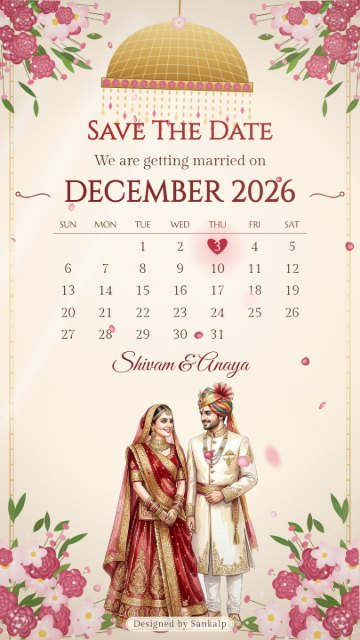
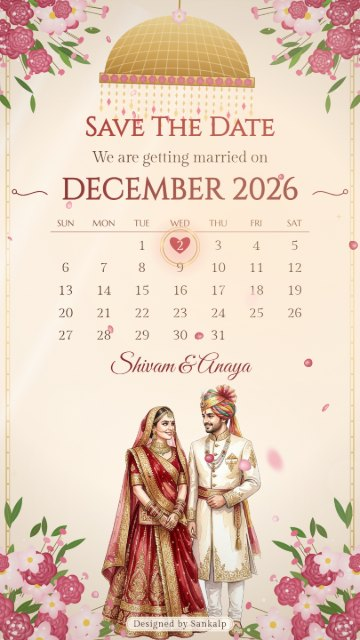
Save The Date: 2 December, gold sheen on the lettering, a gold ring round the day, names written in by hand inside a gold frame

diff --git a/js/cinema/bundle.js b/js/cinema/bundle.js
@@ -5336,8 +5336,24 @@ Cinema.register((K => {
     c.save(); c.globalAlpha *= a; c.textAlign = 'center'; c.textBaseline = 'middle';
     let zz = z; for (let i = 0; i < 20; i++) { c.font = font(f, zz, s); if (c.measureText(s).width <= maxW) break; zz *= .94; }
     if (reveal < 1) { const w = c.measureText(s).width; c.beginPath(); c.rect(x - w / 2 - 40, y - zz, (w + 80) * reveal, zz * 2); c.clip(); }
-    c.fillStyle = col; c.fillText(s, x, y);
+    c.fillStyle = typeof col === 'function' ? col(c, x, c.measureText(s).width, zz) : col; c.fillText(s, x, y);
     c.restore();
+  }
+  // a band of light that sweeps across lettering (p 0 -> 1), drawn over the same words
+  const sheen = p => (c, x, w) => {
+    const g = c.createLinearGradient(x - w / 2 - 120, 0, x + w / 2 + 120, 0), u = clamp(p) * .9 + .05;
+    g.addColorStop(0, 'rgba(255,236,190,0)'); g.addColorStop(Math.max(0, u - .06), 'rgba(255,236,190,0)'); g.addColorStop(u, 'rgba(255,244,214,.95)');
+    g.addColorStop(Math.min(1, u + .06), 'rgba(255,236,190,0)'); g.addColorStop(1, 'rgba(255,236,190,0)'); return g;
+  };
+  // deep gold lettering
+  const goldInk = (c, x, w, z) => { const g = c.createLinearGradient(0, -z * .6, 0, z * .6); g.addColorStop(0, '#d9a94c'); g.addColorStop(.5, '#8a5a1e'); g.addColorStop(1, '#c08a34'); return g; };
+  function shine(c, s, x, y, f, z, a, t, at, maxW) { const p = (t - at) / 1.3; if (p > 0 && p < 1) say(c, s, x, y, f, z, sheen(p), a, maxW); }
+  // a warm light leak that drifts across the frame once
+  function leak(c, p) {
+    if (p <= 0 || p >= 1) return;
+    const x = lerp(-400, W + 400, p), g = c.createRadialGradient(x, H * .35, 0, x, H * .35, 700);
+    g.addColorStop(0, `rgba(255,214,170,${(.38 * Math.sin(p * Math.PI)).toFixed(3)})`); g.addColorStop(1, 'rgba(255,214,170,0)');
+    c.fillStyle = g; c.fillRect(0, 0, W, H);
   }
   function flourish(c, x, y, dir, a, col = WINE) {
     c.save(); c.globalAlpha *= a; c.strokeStyle = col; c.lineWidth = 3; c.lineCap = 'round';
@@ -5353,12 +5369,12 @@ Cinema.register((K => {
 
   // ---------- the card's details ----------
   function weddingDate(card) {
-    if (card && card.sampleOf) return new Date(2026, 11, 3, 19, 0);
+    if (card && card.sampleOf) return new Date(2026, 11, 2, 19, 0);
     const all = days(card || {}).filter(d => d.date);
     const wed = all.find(d => d.events.some(e => /wedding|vivah|shaadi|shadi|phere|lagan|विवाह|शादी|फेरे/i.test(e.name)));
     if (wed) return wed.date;
     if (typeof Core !== 'undefined' && card && card.date) { const d = Core.parseDate(card.date); if (d) return d; }
-    return all.length ? all[0].date : new Date(2026, 11, 3, 19, 0);
+    return all.length ? all[0].date : new Date(2026, 11, 2, 19, 0);
   }
   function grid(date) {
     const y = date.getFullYear(), m = date.getMonth(), first = new Date(y, m, 1).getDay(), n = new Date(y, m + 1, 0).getDate();
@@ -5408,21 +5424,25 @@ Cinema.register((K => {
     const a = ease(rise), h = hgt * (1 + .008 * Math.sin(t * 1.3)), w = h * img.naturalWidth / img.naturalHeight;
     c.save(); c.globalAlpha = a;
     glow(c, 540, foot - h * .55, h * .62, 'rgba(255,248,236,.85)');
-    c.translate(0, (1 - a) * 140);
-    c.drawImage(img, 540 - w / 2, foot - h, w, h);
+    c.translate(540, foot + (1 - a) * 140); c.rotate(Math.sin(t * .9) * .008); c.scale(.92 + .08 * a, .92 + .08 * a);
+    c.drawImage(img, -w / 2, -h, w, h);
     c.restore();
   }
 
   function calendarShot(c, s, pt, t, P) {
     const hi = P.opt.lang === 'hi', { date, G, target, stops } = setFor(s, P);
-    const fade = clamp(pt / .9);
+    const fade = clamp(pt / .9), zc = 1.045 - .045 * ease(pt / 3) + .03 * clamp((pt - 3) / 7.6);
+    c.save(); c.translate(540, 900); c.scale(zc, zc); c.translate(-540, -900);
     backdrop(c, P, pt, t, true);
     // words
     say(c, hi ? 'शुभ तिथि याद रखें' : 'Save The Date', 540, 400, 'title', 78, RED, ease((pt - .5) / .5), 900, ease((pt - .5) / 1.1));
+    shine(c, hi ? 'शुभ तिथि याद रखें' : 'Save The Date', 540, 400, 'title', 78, 1, pt, 1.7, 900);
+    shine(c, hi ? 'शुभ तिथि याद रखें' : 'Save The Date', 540, 400, 'title', 78, 1, pt, 9.0, 900);
     say(c, hi ? 'हम विवाह बंधन में बंध रहे हैं' : 'We are getting married on', 540, 484, 'serif', 44, INK, ease((pt - 1.1) / .7));
     const ma = ease((pt - 1.5) / .8);
     c.save(); c.translate(540, 584); c.scale(.85 + .15 * ma, .85 + .15 * ma);
     say(c, `${(hi ? HI_MONTHS : MONTH_EN)[G.m]} ${G.y}`.toUpperCase(), 0, 0, 'title', 88, WINE, ma, 760);
+    shine(c, `${(hi ? HI_MONTHS : MONTH_EN)[G.m]} ${G.y}`.toUpperCase(), 0, 0, 'title', 88, 1, pt, 2.4, 760);
     c.restore();
     flourish(c, 150, 590, -1, ma * .9); flourish(c, 930, 590, 1, ma * .9);
     // weekday row and rule
@@ -5464,6 +5484,14 @@ Cinema.register((K => {
         c.restore();
       }
     }
+    // a gold ring draws itself around the day, with three lights going slowly round it
+    if (pt >= land + .2) {
+      const q = ease((pt - land - .2) / .7), x = CX(target.col), y = RY(target.row) + 2;
+      c.save(); c.strokeStyle = '#c99a45'; c.lineWidth = 3; c.beginPath(); c.arc(x, y, 50, -Math.PI / 2, -Math.PI / 2 + TAU * q); c.stroke();
+      c.lineWidth = 1.2; c.beginPath(); c.arc(x, y, 58, Math.PI / 2, Math.PI / 2 + TAU * q); c.stroke();
+      for (let i = 0; i < 3; i++) { const an = t * 1.6 + i * TAU / 3; glow(c, x + Math.cos(an) * 54, y + Math.sin(an) * 54, 14 * q, 'rgba(255,236,180,.9)'); }
+      c.restore();
+    }
     // a ring of light and gold sparks where it lands
     if (pt >= land && pt < land + 1.4) {
       const q = (pt - land) / 1.4, x = CX(target.col), y = RY(target.row);
@@ -5481,7 +5509,10 @@ Cinema.register((K => {
       c.restore();
     }
     corners(c, P, pt, t, true);
+    K.sparks(c, t, 16, '#e8c27a', 5);
     petals(c, t, 26, ['#f4a6b8', '#e9768f', '#ffd3dc', '#c8435f'], 41, 1);
+    leak(c, (pt - .6) / 3.2); leak(c, (pt - land) / 2.6);
+    c.restore();
     if (fade < 1) { c.fillStyle = `rgba(253,246,236,${(1 - fade) * .85})`; c.fillRect(0, 0, W, H); }
   }
 
@@ -5493,27 +5524,40 @@ Cinema.register((K => {
 
   function namesShot(c, s, pt, t, P) {
     const hi = P.opt.lang === 'hi', { date } = setFor(s, P), { groom, bride } = groomBride(P);
+    const zc = 1.06 - .06 * ease(pt / 5.6);
+    c.save(); c.translate(540, 800); c.scale(zc, zc); c.translate(-540, -800);
     backdrop(c, P, pt, t, false);
-    const a1 = ease((pt - .3) / .8), a2 = ease((pt - .9) / .7), a3 = ease((pt - 1.4) / .8), a4 = ease((pt - 2.1) / .8);
+    K.motes(c, t, 14, 'rgba(255,214,140,A)', 9, 18);
+    const a1 = ease((pt - .3) / .8), a2 = ease((pt - .7) / .4), a3 = ease((pt - 1.6) / .4), a4 = ease((pt - 2.6) / .8);
+    // a fine gold frame draws itself round the names, with a blossom at each corner
+    const fp = ease((pt - .2) / 1.6), FX = 150, FY = 372, FW = 780, FH = 712, per = 2 * (FW + FH);
+    c.save(); c.strokeStyle = '#c99a45'; c.lineWidth = 2.5; c.setLineDash([per * fp, per]); K.rrect(c, FX, FY, FW, FH, 40); c.stroke();
+    c.lineWidth = 1; K.rrect(c, FX + 14, FY + 14, FW - 28, FH - 28, 30); c.stroke(); c.restore();
+    [[FX, FY], [FX + FW, FY], [FX, FY + FH], [FX + FW, FY + FH]].forEach(([x, y], i) => {
+      const r = ease((pt - 1.2 - i * .1) / .5);
+      if (r > 0) { blossom(c, x, y, 26 * r, '#f3a3b5', '#fff6f2', t * .3 + i, 5); c.fillStyle = '#e8c27a'; c.beginPath(); c.arc(x, y, 6 * r, 0, TAU); c.fill(); }
+    });
     say(c, hi ? '॥ शुभ विवाह ॥' : 'Together with their families', 540, 430, hi ? 'title' : 'ital', hi ? 52 : 46, INK2, a1);
-    c.save(); c.translate(0, (1 - a2) * 30);
-    say(c, groom, 540, 560, 'script', 132, WINE, a2, 900);
-    c.restore();
-    say(c, hi ? 'संग' : 'weds', 540, 668, 'ital', 56, RED, a3);
-    c.save(); c.translate(0, (1 - a3) * 30);
-    say(c, bride, 540, 780, 'script', 132, WINE, a3, 900);
-    c.restore();
-    // a fine divider with a heart, then the day and the place
+    // the names write in from left to right, then a band of light runs over them
+    say(c, groom, 540, 560, 'script', 132, WINE, Math.min(1, a2 * 3), 860, ease((pt - .7) / 1.1));
+    shine(c, groom, 540, 560, 'script', 132, 1, pt, 2.0, 860);
+    say(c, hi ? 'संग' : 'weds', 540, 668, 'ital', 56, goldInk, a3);
+    say(c, bride, 540, 780, 'script', 132, WINE, Math.min(1, a3 * 3), 860, ease((pt - 1.7) / 1.2));
+    shine(c, bride, 540, 780, 'script', 132, 1, pt, 3.0, 860);
+    // a fine divider with a beating heart, then the day and the place
     c.save(); c.globalAlpha = a4; c.strokeStyle = 'rgba(184,134,43,.9)'; c.lineWidth = 2;
     c.beginPath(); c.moveTo(540 - 260 * a4, 878); c.lineTo(520, 878); c.moveTo(560, 878); c.lineTo(540 + 260 * a4, 878); c.stroke();
-    heartPath(c, 540, 882, 14); c.fillStyle = '#b3243a'; c.fill(); c.restore();
+    heartPath(c, 540, 882, 14 * (1 + .15 * Math.sin(t * 4))); c.fillStyle = '#b3243a'; c.fill(); c.restore();
     const dd = date.getDate(), mon = (hi ? HI_MONTHS : MONTH_EN)[date.getMonth()];
-    say(c, hi ? `${HI_DAY[date.getDay()]}, ${dd} ${mon} ${date.getFullYear()}` : `${EN_DAY[date.getDay()]}, ${dd} ${mon} ${date.getFullYear()}`, 540, 948, 'title', 44, INK, a4, 900);
+    say(c, hi ? `${HI_DAY[date.getDay()]}, ${dd} ${mon} ${date.getFullYear()}` : `${EN_DAY[date.getDay()]}, ${dd} ${mon} ${date.getFullYear()}`, 540, 948, 'title', 44, goldInk, a4, 900);
     const venue = clean((P.card || {}).venue);
-    if (venue) say(c, venue, 540, 1010, 'serif', 36, INK2, ease((pt - 2.5) / .8), 860);
-    drawCouple(c, P, pt, t, 1, 700, 1900);
+    if (venue) say(c, venue, 540, 1010, 'serif', 36, INK2, ease((pt - 3) / .8), 860);
+    drawCouple(c, P, pt, t, .35 + pt / 1.4, 700, 1900);
     corners(c, P, pt, t, false);
+    K.sparks(c, t, 14, '#e8c27a', 6);
     petals(c, t + 20, 30, ['#f4a6b8', '#e9768f', '#ffd3dc', '#c8435f'], 43, 1);
+    leak(c, (pt - .1) / 3);
+    c.restore();
   }
 
   return {

diff --git a/js/cinema/story-savedate.js b/js/cinema/story-savedate.js
@@ -111,8 +111,24 @@ Cinema.register((K => {
     c.save(); c.globalAlpha *= a; c.textAlign = 'center'; c.textBaseline = 'middle';
     let zz = z; for (let i = 0; i < 20; i++) { c.font = font(f, zz, s); if (c.measureText(s).width <= maxW) break; zz *= .94; }
     if (reveal < 1) { const w = c.measureText(s).width; c.beginPath(); c.rect(x - w / 2 - 40, y - zz, (w + 80) * reveal, zz * 2); c.clip(); }
-    c.fillStyle = col; c.fillText(s, x, y);
+    c.fillStyle = typeof col === 'function' ? col(c, x, c.measureText(s).width, zz) : col; c.fillText(s, x, y);
     c.restore();
+  }
+  // a band of light that sweeps across lettering (p 0 -> 1), drawn over the same words
+  const sheen = p => (c, x, w) => {
+    const g = c.createLinearGradient(x - w / 2 - 120, 0, x + w / 2 + 120, 0), u = clamp(p) * .9 + .05;
+    g.addColorStop(0, 'rgba(255,236,190,0)'); g.addColorStop(Math.max(0, u - .06), 'rgba(255,236,190,0)'); g.addColorStop(u, 'rgba(255,244,214,.95)');
+    g.addColorStop(Math.min(1, u + .06), 'rgba(255,236,190,0)'); g.addColorStop(1, 'rgba(255,236,190,0)'); return g;
+  };
+  // deep gold lettering
+  const goldInk = (c, x, w, z) => { const g = c.createLinearGradient(0, -z * .6, 0, z * .6); g.addColorStop(0, '#d9a94c'); g.addColorStop(.5, '#8a5a1e'); g.addColorStop(1, '#c08a34'); return g; };
+  function shine(c, s, x, y, f, z, a, t, at, maxW) { const p = (t - at) / 1.3; if (p > 0 && p < 1) say(c, s, x, y, f, z, sheen(p), a, maxW); }
+  // a warm light leak that drifts across the frame once
+  function leak(c, p) {
+    if (p <= 0 || p >= 1) return;
+    const x = lerp(-400, W + 400, p), g = c.createRadialGradient(x, H * .35, 0, x, H * .35, 700);
+    g.addColorStop(0, `rgba(255,214,170,${(.38 * Math.sin(p * Math.PI)).toFixed(3)})`); g.addColorStop(1, 'rgba(255,214,170,0)');
+    c.fillStyle = g; c.fillRect(0, 0, W, H);
   }
   function flourish(c, x, y, dir, a, col = WINE) {
     c.save(); c.globalAlpha *= a; c.strokeStyle = col; c.lineWidth = 3; c.lineCap = 'round';
@@ -128,12 +144,12 @@ Cinema.register((K => {
 
   // ---------- the card's details ----------
   function weddingDate(card) {
-    if (card && card.sampleOf) return new Date(2026, 11, 3, 19, 0);
+    if (card && card.sampleOf) return new Date(2026, 11, 2, 19, 0);
     const all = days(card || {}).filter(d => d.date);
     const wed = all.find(d => d.events.some(e => /wedding|vivah|shaadi|shadi|phere|lagan|विवाह|शादी|फेरे/i.test(e.name)));
     if (wed) return wed.date;
     if (typeof Core !== 'undefined' && card && card.date) { const d = Core.parseDate(card.date); if (d) return d; }
-    return all.length ? all[0].date : new Date(2026, 11, 3, 19, 0);
+    return all.length ? all[0].date : new Date(2026, 11, 2, 19, 0);
   }
   function grid(date) {
     const y = date.getFullYear(), m = date.getMonth(), first = new Date(y, m, 1).getDay(), n = new Date(y, m + 1, 0).getDate();
@@ -183,21 +199,25 @@ Cinema.register((K => {
     const a = ease(rise), h = hgt * (1 + .008 * Math.sin(t * 1.3)), w = h * img.naturalWidth / img.naturalHeight;
     c.save(); c.globalAlpha = a;
     glow(c, 540, foot - h * .55, h * .62, 'rgba(255,248,236,.85)');
-    c.translate(0, (1 - a) * 140);
-    c.drawImage(img, 540 - w / 2, foot - h, w, h);
+    c.translate(540, foot + (1 - a) * 140); c.rotate(Math.sin(t * .9) * .008); c.scale(.92 + .08 * a, .92 + .08 * a);
+    c.drawImage(img, -w / 2, -h, w, h);
     c.restore();
   }
 
   function calendarShot(c, s, pt, t, P) {
     const hi = P.opt.lang === 'hi', { date, G, target, stops } = setFor(s, P);
-    const fade = clamp(pt / .9);
+    const fade = clamp(pt / .9), zc = 1.045 - .045 * ease(pt / 3) + .03 * clamp((pt - 3) / 7.6);
+    c.save(); c.translate(540, 900); c.scale(zc, zc); c.translate(-540, -900);
     backdrop(c, P, pt, t, true);
     // words
     say(c, hi ? 'शुभ तिथि याद रखें' : 'Save The Date', 540, 400, 'title', 78, RED, ease((pt - .5) / .5), 900, ease((pt - .5) / 1.1));
+    shine(c, hi ? 'शुभ तिथि याद रखें' : 'Save The Date', 540, 400, 'title', 78, 1, pt, 1.7, 900);
+    shine(c, hi ? 'शुभ तिथि याद रखें' : 'Save The Date', 540, 400, 'title', 78, 1, pt, 9.0, 900);
     say(c, hi ? 'हम विवाह बंधन में बंध रहे हैं' : 'We are getting married on', 540, 484, 'serif', 44, INK, ease((pt - 1.1) / .7));
     const ma = ease((pt - 1.5) / .8);
     c.save(); c.translate(540, 584); c.scale(.85 + .15 * ma, .85 + .15 * ma);
     say(c, `${(hi ? HI_MONTHS : MONTH_EN)[G.m]} ${G.y}`.toUpperCase(), 0, 0, 'title', 88, WINE, ma, 760);
+    shine(c, `${(hi ? HI_MONTHS : MONTH_EN)[G.m]} ${G.y}`.toUpperCase(), 0, 0, 'title', 88, 1, pt, 2.4, 760);
     c.restore();
     flourish(c, 150, 590, -1, ma * .9); flourish(c, 930, 590, 1, ma * .9);
     // weekday row and rule
@@ -239,6 +259,14 @@ Cinema.register((K => {
         c.restore();
       }
     }
+    // a gold ring draws itself around the day, with three lights going slowly round it
+    if (pt >= land + .2) {
+      const q = ease((pt - land - .2) / .7), x = CX(target.col), y = RY(target.row) + 2;
+      c.save(); c.strokeStyle = '#c99a45'; c.lineWidth = 3; c.beginPath(); c.arc(x, y, 50, -Math.PI / 2, -Math.PI / 2 + TAU * q); c.stroke();
+      c.lineWidth = 1.2; c.beginPath(); c.arc(x, y, 58, Math.PI / 2, Math.PI / 2 + TAU * q); c.stroke();
+      for (let i = 0; i < 3; i++) { const an = t * 1.6 + i * TAU / 3; glow(c, x + Math.cos(an) * 54, y + Math.sin(an) * 54, 14 * q, 'rgba(255,236,180,.9)'); }
+      c.restore();
+    }
     // a ring of light and gold sparks where it lands
     if (pt >= land && pt < land + 1.4) {
       const q = (pt - land) / 1.4, x = CX(target.col), y = RY(target.row);
@@ -256,7 +284,10 @@ Cinema.register((K => {
       c.restore();
     }
     corners(c, P, pt, t, true);
+    K.sparks(c, t, 16, '#e8c27a', 5);
     petals(c, t, 26, ['#f4a6b8', '#e9768f', '#ffd3dc', '#c8435f'], 41, 1);
+    leak(c, (pt - .6) / 3.2); leak(c, (pt - land) / 2.6);
+    c.restore();
     if (fade < 1) { c.fillStyle = `rgba(253,246,236,${(1 - fade) * .85})`; c.fillRect(0, 0, W, H); }
   }
 
@@ -268,27 +299,40 @@ Cinema.register((K => {
 
   function namesShot(c, s, pt, t, P) {
     const hi = P.opt.lang === 'hi', { date } = setFor(s, P), { groom, bride } = groomBride(P);
+    const zc = 1.06 - .06 * ease(pt / 5.6);
+    c.save(); c.translate(540, 800); c.scale(zc, zc); c.translate(-540, -800);
     backdrop(c, P, pt, t, false);
-    const a1 = ease((pt - .3) / .8), a2 = ease((pt - .9) / .7), a3 = ease((pt - 1.4) / .8), a4 = ease((pt - 2.1) / .8);
+    K.motes(c, t, 14, 'rgba(255,214,140,A)', 9, 18);
+    const a1 = ease((pt - .3) / .8), a2 = ease((pt - .7) / .4), a3 = ease((pt - 1.6) / .4), a4 = ease((pt - 2.6) / .8);
+    // a fine gold frame draws itself round the names, with a blossom at each corner
+    const fp = ease((pt - .2) / 1.6), FX = 150, FY = 372, FW = 780, FH = 712, per = 2 * (FW + FH);
+    c.save(); c.strokeStyle = '#c99a45'; c.lineWidth = 2.5; c.setLineDash([per * fp, per]); K.rrect(c, FX, FY, FW, FH, 40); c.stroke();
+    c.lineWidth = 1; K.rrect(c, FX + 14, FY + 14, FW - 28, FH - 28, 30); c.stroke(); c.restore();
+    [[FX, FY], [FX + FW, FY], [FX, FY + FH], [FX + FW, FY + FH]].forEach(([x, y], i) => {
+      const r = ease((pt - 1.2 - i * .1) / .5);
+      if (r > 0) { blossom(c, x, y, 26 * r, '#f3a3b5', '#fff6f2', t * .3 + i, 5); c.fillStyle = '#e8c27a'; c.beginPath(); c.arc(x, y, 6 * r, 0, TAU); c.fill(); }
+    });
     say(c, hi ? '॥ शुभ विवाह ॥' : 'Together with their families', 540, 430, hi ? 'title' : 'ital', hi ? 52 : 46, INK2, a1);
-    c.save(); c.translate(0, (1 - a2) * 30);
-    say(c, groom, 540, 560, 'script', 132, WINE, a2, 900);
-    c.restore();
-    say(c, hi ? 'संग' : 'weds', 540, 668, 'ital', 56, RED, a3);
-    c.save(); c.translate(0, (1 - a3) * 30);
-    say(c, bride, 540, 780, 'script', 132, WINE, a3, 900);
-    c.restore();
-    // a fine divider with a heart, then the day and the place
+    // the names write in from left to right, then a band of light runs over them
+    say(c, groom, 540, 560, 'script', 132, WINE, Math.min(1, a2 * 3), 860, ease((pt - .7) / 1.1));
+    shine(c, groom, 540, 560, 'script', 132, 1, pt, 2.0, 860);
+    say(c, hi ? 'संग' : 'weds', 540, 668, 'ital', 56, goldInk, a3);
+    say(c, bride, 540, 780, 'script', 132, WINE, Math.min(1, a3 * 3), 860, ease((pt - 1.7) / 1.2));
+    shine(c, bride, 540, 780, 'script', 132, 1, pt, 3.0, 860);
+    // a fine divider with a beating heart, then the day and the place
     c.save(); c.globalAlpha = a4; c.strokeStyle = 'rgba(184,134,43,.9)'; c.lineWidth = 2;
     c.beginPath(); c.moveTo(540 - 260 * a4, 878); c.lineTo(520, 878); c.moveTo(560, 878); c.lineTo(540 + 260 * a4, 878); c.stroke();
-    heartPath(c, 540, 882, 14); c.fillStyle = '#b3243a'; c.fill(); c.restore();
+    heartPath(c, 540, 882, 14 * (1 + .15 * Math.sin(t * 4))); c.fillStyle = '#b3243a'; c.fill(); c.restore();
     const dd = date.getDate(), mon = (hi ? HI_MONTHS : MONTH_EN)[date.getMonth()];
-    say(c, hi ? `${HI_DAY[date.getDay()]}, ${dd} ${mon} ${date.getFullYear()}` : `${EN_DAY[date.getDay()]}, ${dd} ${mon} ${date.getFullYear()}`, 540, 948, 'title', 44, INK, a4, 900);
+    say(c, hi ? `${HI_DAY[date.getDay()]}, ${dd} ${mon} ${date.getFullYear()}` : `${EN_DAY[date.getDay()]}, ${dd} ${mon} ${date.getFullYear()}`, 540, 948, 'title', 44, goldInk, a4, 900);
     const venue = clean((P.card || {}).venue);
-    if (venue) say(c, venue, 540, 1010, 'serif', 36, INK2, ease((pt - 2.5) / .8), 860);
-    drawCouple(c, P, pt, t, 1, 700, 1900);
+    if (venue) say(c, venue, 540, 1010, 'serif', 36, INK2, ease((pt - 3) / .8), 860);
+    drawCouple(c, P, pt, t, .35 + pt / 1.4, 700, 1900);
     corners(c, P, pt, t, false);
+    K.sparks(c, t, 14, '#e8c27a', 6);
     petals(c, t + 20, 30, ['#f4a6b8', '#e9768f', '#ffd3dc', '#c8435f'], 43, 1);
+    leak(c, (pt - .1) / 3);
+    c.restore();
   }
 
   return {
